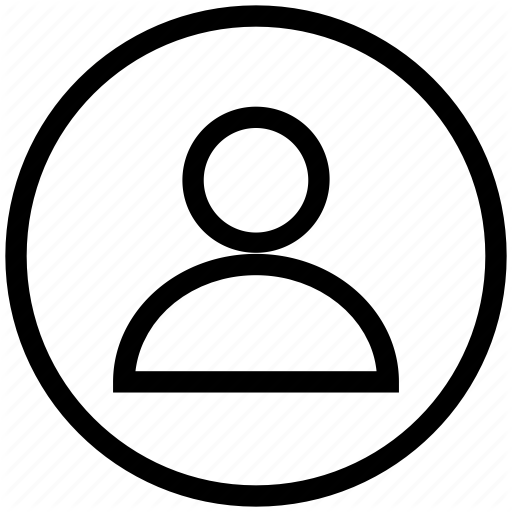
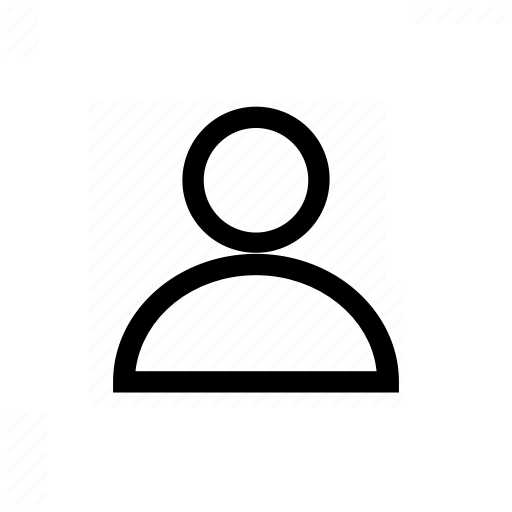
Compress team pic.

Changed region(s): [[0.0, 0.0, 1.0, 1.0]]

diff --git a/assets/css/team.css b/assets/css/team.css
@@ -1,38 +1,42 @@
 .sidenav {
-    width: auto;
-    overflow-x: hidden;
-    transition: 0.5s;
-    position: sticky;
-    position: -webkit-sticky;
-    top: 7em;
-    margin-top: 8em;
+  width: auto;
+  overflow-x: hidden;
+  transition: 0.5s;
+  position: sticky;
+  position: -webkit-sticky;
+  top: 7em;
+  margin-top: 8em;
 }
 
 .sidenav .side-link {
-    margin: 4px 1em 4px 1em;
-    padding: 16px 1em 16px 1em;
-    text-decoration: none;
-    font-size: 20px;
-    color: black;
-    display: block;
-    transition: 0.3s;
-    border-radius: 2em;
+  margin: 4px 1em 4px 1em;
+  padding: 16px 1em 16px 1em;
+  text-decoration: none;
+  font-size: 20px;
+  color: black;
+  display: block;
+  transition: 0.3s;
+  border-radius: 2em;
 }
 .sidenav .side-link:hover {
-    background-color: #2F373F;
-    color: #F1F1F1;
+  background-color: #2f373f;
+  color: #f1f1f1;
 }
 
 .picture {
-    max-width: 175px;
-    text-align: center;
+  width: 175px;
+  max-width: 175px;
+  height: 175px;
+  max-height: 175px;
+  background: #eee;
+  text-align: center;
 }
 
 .name-fit {
-    font-size: 11pt;
-    padding-bottom: 4pt;
+  font-size: 11pt;
+  padding-bottom: 4pt;
 }
 
 .team-type {
-    margin-top: 4em;
+  margin-top: 4em;
 }
